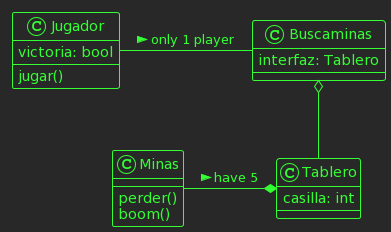
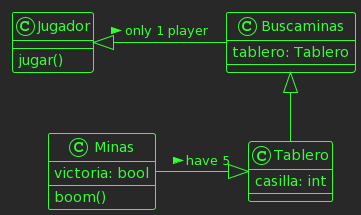
Final

Changed region(s): [[0.0305, 0.0279, 1.0, 1.0]]

diff --git a/desarrollo.py b/desarrollo.py
@@ -1,35 +1,45 @@
-class Buscaminas():
-    def __init__(self) -> None:
-        self.interfaz = Tablero()
-
-class Tablero():
-    def __init__(self) -> None:
-        self.casilla = [[0, 1, 0, 1, 0],[1, 0, 1, 0, 1]]
-    
-
 class Minas():
+    def __init__(self):
+        self.victoria = True
     def perder(self) -> None:
         """
         Termina el juego.
         """
+        print("Perdiste, has estallado.")
         self.victoria = False
     def boom(self) -> None:
         """
         Le informa al jugador que seleccionó una mina y estalló.
         """
         print("Perdiste, has estallado.")
-            
 
-class Jugador():
+class Tablero(Minas):
+    def __init__(self) -> None:
+        self.casilla = []
+        
+class Buscaminas(Tablero):
+    def __init__(self) -> None:
+        self.interfaz = Tablero()
+    
+class Jugador(Buscaminas):
     def __init__(self) -> None:
         self.victoria = True
+        self.casilla=   [[1, 0, 0, 0, 0],
+                        [0, 1, 0, 0, 0], 
+                        [0, 0, 1, 0, 0], 
+                        [0, 0, 0, 1, 0],
+                        [0, 0, 0, 0, 1]]
     
     def jugar(self) -> None:
         """
         Comienza una partida.
         """
-        fila = int(input("Digite un número de fila."))
-        columna = int(input("Digite un número de columna."))
+        fila = int(input("Digite un número de fila entre 0 y 4."))
+        while(fila > -1 and fila > 4):
+            fila = int(input("Digite un número de fila entre 0 y 4."))
+        columna = int(input("Digite un número de columna entre 0 y 4."))
+        while(columna > -1 and columna > 4):
+            columna = int(input("Digite un número de columna entre 0 y 4."))
         if self.casilla[fila][columna] == 1:
             self.perder()
         elif self.casilla[fila][columna] == 2:

diff --git a/code_to_run.py b/code_to_run.py
@@ -1,7 +1,5 @@
 from desarrollo import Buscaminas, Tablero, Minas, Jugador
 posada = Jugador()
-juego = Buscaminas()
-tablero = Tablero()
 
 while(posada.victoria):
     posada.jugar()
